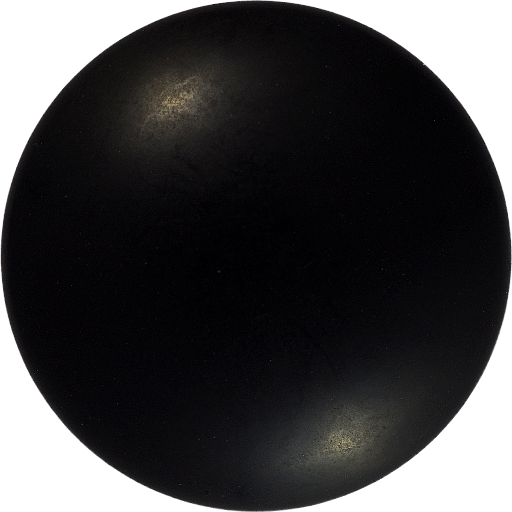
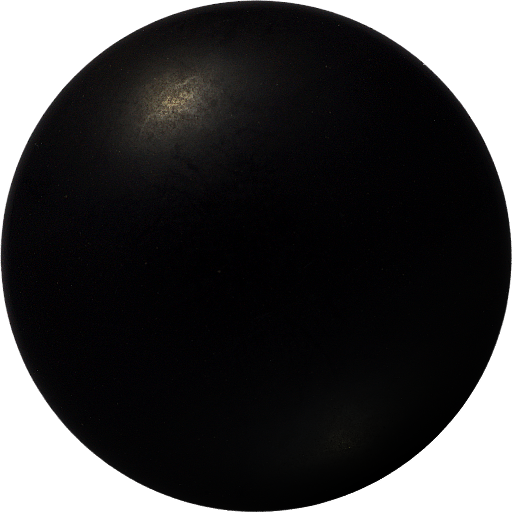
Remove double light sources

diff --git a/styles.css b/styles.css
@@ -1,21 +1,5 @@
 /* This stylesheet is loaded when Sabaki starts up. */
 
-.goban {
-    border-color: #A57014;
-}
-
-.goban,
-.goban .row li .stone span::before,
-.goban .row li .stone span::after,
-.goban .row li.cross .stone span {
-        background-color: #D8A347;
-        background-image: url('go-assets/wood_used.jpg');
-        background-size: cover;
-    }
-    .goban .row li.triangle .stone span::after {
-        border-bottom-color: #D8A347;
-}
-
 .goban li.sign_1 .stone img {
         background-image: url('go-assets/black_00.png');
     }
@@ -46,7 +30,7 @@
 }
 
 .goban li.sign_1 .stone::before, .goban li.sign_-1 .stone::before {
-        box-shadow: 2px 2px .18em black;
+        box-shadow: 2px 2px .18em rgba(20, 0, 15, 1);
         opacity: .4;
     }
     .goban li.sign_1 .stone::before {

diff --git a/README.md b/README.md
@@ -1,6 +1,6 @@
 # sabaki_photorealistic_theme
 
-Photorealistic userstyle for [Sabaki](http://sabaki.yichuanshen.de/) using [Andreas Tarnowsky](https://github.com/atarnowsky)'s [go-assets](https://github.com/atarnowsky/go-assets) pack.
+Photorealistic userstyle for [Sabaki](http://sabaki.yichuanshen.de/) based on [Andreas Tarnowsky](https://github.com/atarnowsky)'s [go-assets](https://github.com/atarnowsky/go-assets) pack.
 
 ![Screenshot](screenshot.png)
 
